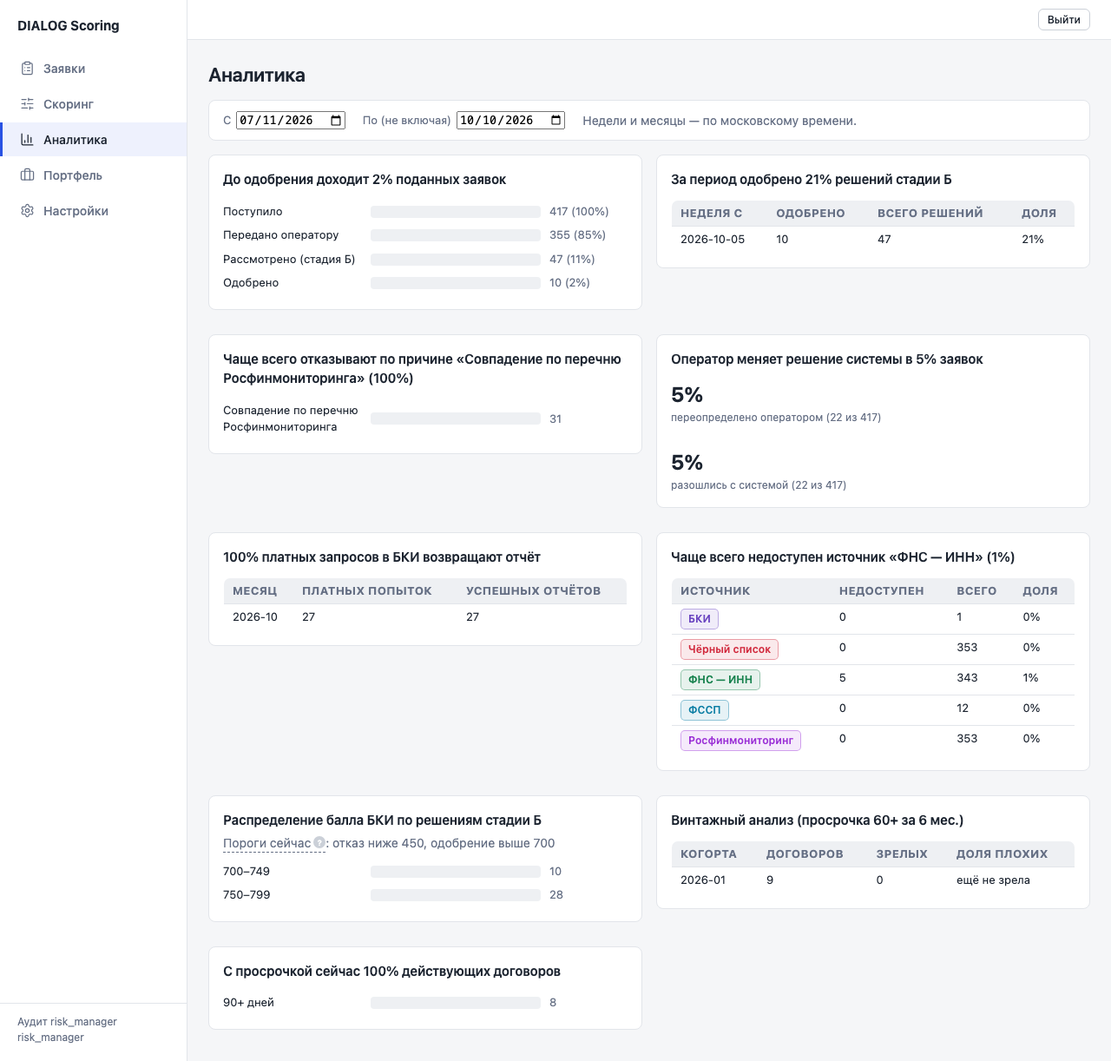
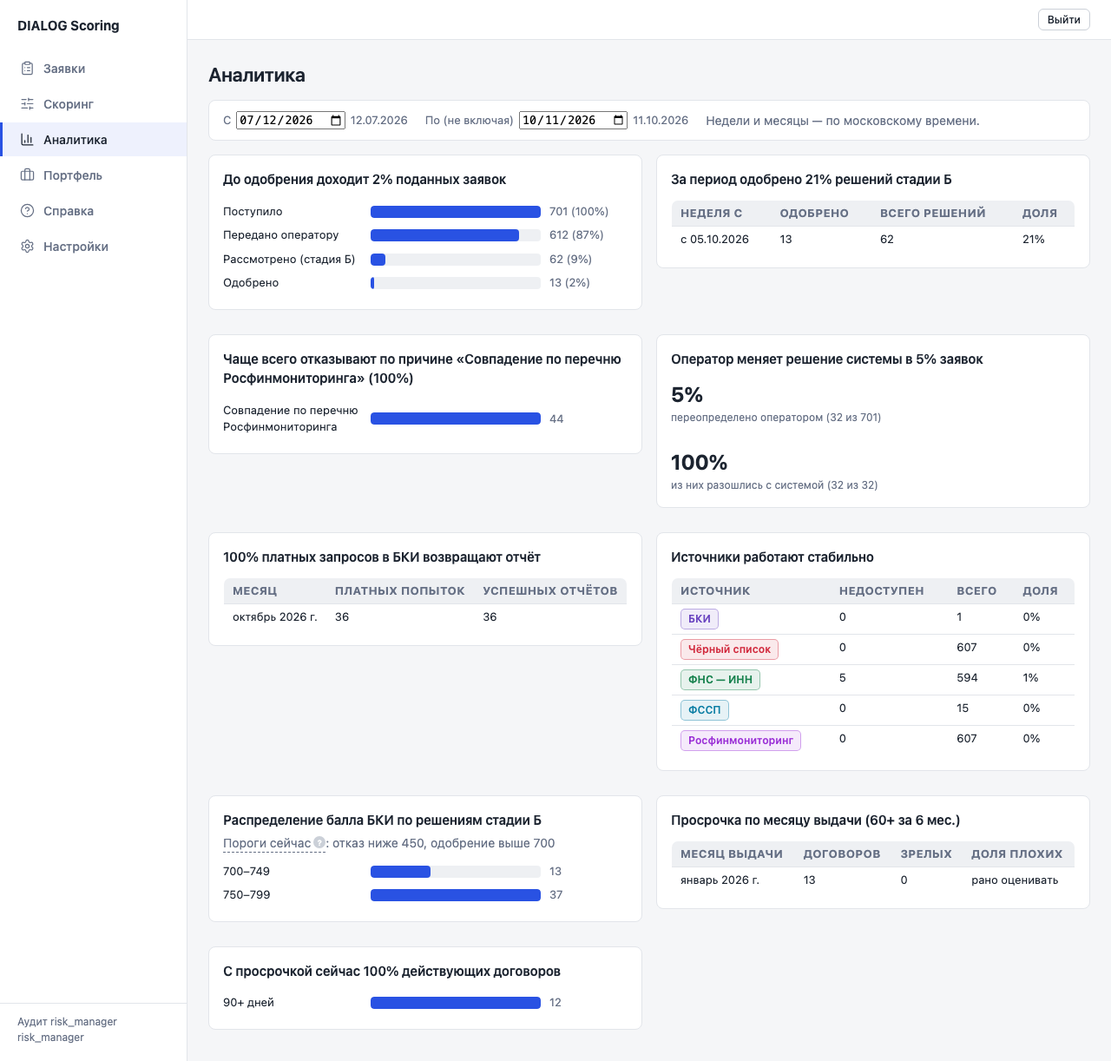
T17: финальные правки Аналитики и Справки перед мержем
Аналитика:
- Баг: .bar-fill — inline-span, width/height из стилей не действовали, ни
  один бар нигде не был виден. display: block чинит сразу все графики.
  Playwright: проверка ненулевой ширины заливки.
- Блок «оператор»: вторая цифра — доля от переопределённых («из них
  разошлись с системой»), не от всех заявок — раньше обе цифры совпадали
  без объяснения, почему.
- Порог заголовка «Недоступность источников» — новый ключ конфига
  dashboard.source_unavailable_warn_threshold (app/engine/schema.py,
  config/rulesets/dev.yaml), не константа в коде.
- Форматы: недели «с ДД.ММ.ГГГГ», месяцы «октябрь 2026 г.» (formatMonth).
  Поля периода — нативный календарь форматируется по локали ОС браузера
  (не по lang атрибута и не по locale контекста Playwright, проверено
  зондом) — рядом подпись ДД.ММ.ГГГГ нашим Intl-форматтером.
- Переименования: «Винтажный анализ» → «Просрочка по месяцу выдачи»,
  «Когорта» → «Месяц выдачи», «ещё не зрела» → «рано оценивать».

Справка:
- МВД убран из описания стадии А.
- «Оператор» — один человек с двумя задачами, без «не путать с».
- «Правила (конфиг)» → «Правила и пороги», без YAML/конфиг в тексте для людей.

pytest 556 passed · Playwright 35 passed · e2e_check 5/5.

diff --git a/frontend/src/pages/Dashboard.tsx b/frontend/src/pages/Dashboard.tsx
@@ -5,6 +5,7 @@ import { BarList } from "../components/BarList";
 import { SourceBadge } from "../components/SourceBadge";
 import { Term } from "../components/Term";
 import { funnelStepLabel, reasonCodeLabel, sourceMeta } from "../lib/labels";
+import { formatDate, formatMonth } from "../lib/format";
 
 function isoDate(d: Date): string {
   return d.toISOString().slice(0, 10);
@@ -51,11 +52,16 @@ export function DashboardPage() {
       <div className="toolbar">
         <label>
           С
-          <input type="date" value={periodFrom} onChange={(e) => setPeriodFrom(e.target.value)} />
+          <input type="date" lang="ru" value={periodFrom} onChange={(e) => setPeriodFrom(e.target.value)} />
+          {/* Формат нативного календаря зависит от локали ОС браузера — вне
+              нашего контроля (lang на элементе Chromium для него не читает).
+              Подпись рядом — всегда ДД.ММ.ГГГГ, тем же Intl, что в карточке. */}
+          <span className="muted">{formatDate(periodFrom)}</span>
         </label>
         <label>
           По (не включая)
-          <input type="date" value={periodTo} onChange={(e) => setPeriodTo(e.target.value)} />
+          <input type="date" lang="ru" value={periodTo} onChange={(e) => setPeriodTo(e.target.value)} />
+          <span className="muted">{formatDate(periodTo)}</span>
         </label>
         <span className="muted">Недели и месяцы — по московскому времени.</span>
       </div>
@@ -122,7 +128,7 @@ export function DashboardPage() {
                 <tbody>
                   {query.data.weekly_approval.map((w) => (
                     <tr key={w.week_start}>
-                      <td>{w.week_start}</td>
+                      <td>с {formatDate(w.week_start)}</td>
                       <td>{w.approved}</td>
                       <td>{w.total}</td>
                       <td>{pct(w.approved, w.total)}</td>
@@ -176,11 +182,14 @@ export function DashboardPage() {
                 </div>
                 <div className="stat">
                   <span className="stat-value">
-                    {pct(query.data.overrides.discrepancies, query.data.overrides.applications_total)}
+                    {pct(query.data.overrides.discrepancies, query.data.overrides.overridden)}
                   </span>
                   <span className="stat-label">
-                    разошлись с системой ({query.data.overrides.discrepancies} из{" "}
-                    {query.data.overrides.applications_total})
+                    {/* Доля от ПЕРЕОПРЕДЕЛЁННЫХ, не от всех заявок (ваше замечание —
+                        иначе эта цифра совпадает с первой и непонятно, чем они разные):
+                        сколько из тех, что оператор поменял, разошлось с системой. */}
+                    из них разошлись с системой ({query.data.overrides.discrepancies} из{" "}
+                    {query.data.overrides.overridden})
                   </span>
                 </div>
               </div>
@@ -213,7 +222,7 @@ export function DashboardPage() {
                 <tbody>
                   {query.data.bki_monthly.map((m) => (
                     <tr key={m.month}>
-                      <td>{m.month}</td>
+                      <td>{formatMonth(m.month)}</td>
                       <td>{m.attempts}</td>
                       <td>{m.successful}</td>
                     </tr>
@@ -226,13 +235,19 @@ export function DashboardPage() {
           <div className="card">
             {(() => {
               const d = query.data!;
+              const threshold = d.source_unavailable_warn_threshold;
               const sorted = d.source_availability.slice().sort((a, b) => b.unavailable / Math.max(1, b.total) - a.unavailable / Math.max(1, a.total));
-              const worst = sorted.find((s) => s.unavailable > 0);
+              // Порог — из действующей версии правил (config/rulesets/dev.yaml
+              // dashboard.source_unavailable_warn_threshold), не константа в коде
+              // фронта: ниже него — «стабильно», выше — называем худший источник.
+              const worst = sorted.find((s) => s.total > 0 && s.unavailable / s.total >= threshold);
               return (
                 <h2 style={{ marginTop: 0 }}>
-                  {!worst
+                  {d.source_availability.length === 0
                     ? "Недоступность источников"
-                    : `Чаще всего недоступен источник «${sourceMeta(worst.source).label}» (${pct(worst.unavailable, worst.total)})`}
+                    : !worst
+                      ? "Источники работают стабильно"
+                      : `Чаще всего недоступен источник «${sourceMeta(worst.source).label}» (${pct(worst.unavailable, worst.total)})`}
                 </h2>
               );
             })()}
@@ -303,7 +318,7 @@ export function DashboardPage() {
               return (
                 <h2 style={{ marginTop: 0 }}>
                   {totalMature === 0
-                    ? "Винтажный анализ (просрочка 60+ за 6 мес.)"
+                    ? "Просрочка по месяцу выдачи (60+ за 6 мес.)"
                     : `Среди зрелых когорт просрочку 60+ за 6 мес. допускают ${pct(totalBad, totalMature)} договоров`}
                 </h2>
               );
@@ -315,7 +330,7 @@ export function DashboardPage() {
               <table className="table table--compact">
                 <thead>
                   <tr>
-                    <th>Когорта</th>
+                    <th>Месяц выдачи</th>
                     <th>Договоров</th>
                     <th>Зрелых</th>
                     <th>Доля плохих</th>
@@ -324,12 +339,12 @@ export function DashboardPage() {
                 <tbody>
                   {query.data.vintage.map((v) => (
                     <tr key={v.cohort_month}>
-                      <td>{v.cohort_month}</td>
+                      <td>{formatMonth(v.cohort_month)}</td>
                       <td>{v.total_contracts}</td>
                       <td>{v.mature_contracts}</td>
                       <td>
                         {v.mature_contracts === 0
-                          ? "ещё не зрела"
+                          ? "рано оценивать"
                           : `${pct(v.bad_contracts ?? 0, v.mature_contracts)} (${v.bad_contracts} из ${v.mature_contracts})`}
                       </td>
                     </tr>

diff --git a/frontend/src/pages/Help.tsx b/frontend/src/pages/Help.tsx
@@ -16,7 +16,7 @@ const ROLE_ROWS: { role: string; label: string; sees: string }[] = [
   {
     role: "operator",
     label: "Оператор",
-    sees: "Сотрудник нашей админки (не путать с оператором в системе заказчика, который звонит клиенту). Проверяет ФССП по заявке — капчу решает человек. В карточке заявки видит ФИО и адрес заявителя и поручителя — без этого нельзя выбрать регион ФССП или отличить должника от однофамильца. В списке заявок тоже видит ФИО. Очередь — «позвонить» и «проверить ФССП».",
+    sees: "Звонит клиенту в системе заказчика и нажимает «Рассмотреть», а в нашей админке проверяет ФССП по заявке — капчу решает человек. В карточке заявки видит ФИО и адрес заявителя и поручителя — без этого нельзя выбрать регион ФССП или отличить должника от однофамильца. В списке заявок тоже видит ФИО. Очередь — «позвонить» и «проверить ФССП».",
   },
   {
     role: "compliance",
@@ -54,7 +54,7 @@ const GLOSSARY: { term: string; text: string }[] = [
   },
   {
     term: "Стадия А / стадия Б",
-    text: "Стадия А — сразу после подачи, без кредитной истории: только бесплатные локальные проверки (паспорт, МВД, Росфинмониторинг, чёрный список). Одобрения на стадии А не бывает — только отказ или передача оператору. Стадия Б — после звонка оператора: полнота анкеты, шариат, лимиты, затем запрос в БКИ и финансовые правила.",
+    text: "Стадия А — сразу после подачи, без кредитной истории: только бесплатные локальные проверки (формат и срок паспорта, Росфинмониторинг, чёрный список). Одобрения на стадии А не бывает — только отказ или передача оператору. Стадия Б — после звонка оператора: полнота анкеты, шариат, лимиты, затем запрос в БКИ и финансовые правила.",
   },
   {
     term: "«Не вычислимо»",
@@ -88,7 +88,7 @@ export function HelpPage() {
         </li>
         <li>
           <strong>
-            <Term tip="Сразу после подачи, без кредитной истории: только бесплатные локальные проверки (паспорт, МВД, Росфинмониторинг, чёрный список). Одобрения на стадии А не бывает.">
+            <Term tip="Сразу после подачи, без кредитной истории: только бесплатные локальные проверки (формат и срок паспорта, Росфинмониторинг, чёрный список). Одобрения на стадии А не бывает.">
               Стадия А
             </Term>
           </strong>{" "}
@@ -115,9 +115,9 @@ export function HelpPage() {
       <h2>Три рычага, которые влияют на решение</h2>
       <div className="help-levers">
         <div className="card">
-          <h3 style={{ marginTop: 0 }}>Правила (конфиг)</h3>
+          <h3 style={{ marginTop: 0 }}>Правила и пороги</h3>
           <p className="muted">
-            Пороги балла БКИ, лимиты сделки, долговая нагрузка — всё в YAML-версии правил, не в коде. Каждое
+            Пороги балла БКИ, лимиты сделки, долговая нагрузка — всё в одной версии правил, не в коде. Каждое
             решение хранит версию, по которой оно принято, так что порог в карточке старого решения не «уедет»
             после правки.
           </p>

diff --git a/frontend/e2e/analytics.spec.ts b/frontend/e2e/analytics.spec.ts
@@ -20,6 +20,47 @@ test("аналитика: воронка с выводом в заголовке
   await expect(page.getByText(/^submitted$|^to_operator$|^stage_b$|^approved$/)).toHaveCount(0);
 });
 
+test("бары графиков видимо заполнены, не пустой трек (баг заливки)", async ({ page }) => {
+  const seed = loadSeed();
+  await login(page, seed.risk_manager.email, seed.risk_manager.password);
+  await page.goto("/dashboard");
+
+  const fill = page.locator(".bar-fill").first();
+  await expect(fill).toBeVisible();
+  const box = await fill.boundingBox();
+  expect(box, "у .bar-fill должен быть реальный прямоугольник").not.toBeNull();
+  expect(box!.width).toBeGreaterThan(0);
+});
+
+test("даты и месяцы — по-русски, не ISO; переопределения объясняют разницу двух цифр", async ({ page }) => {
+  const seed = loadSeed();
+  await login(page, seed.risk_manager.email, seed.risk_manager.password);
+  await page.goto("/dashboard");
+
+  // Неделя "с ДД.ММ.ГГГГ", не голый ISO "YYYY-MM-DD".
+  await expect(page.getByText(/^с \d{2}\.\d{2}\.\d{4}$/).first()).toBeVisible();
+  await expect(page.getByText(/^\d{4}-\d{2}-\d{2}$/)).toHaveCount(0);
+  // Месяц "октябрь 2026"/"сентябрь 2026" и т.п., не голый "YYYY-MM".
+  await expect(page.getByText(/^\d{4}-\d{2}$/)).toHaveCount(0);
+
+  // Поля периода: нативный календарь форматируется по локали ОС браузера
+  // (вне нашего контроля) — рядом всегда подпись ДД.ММ.ГГГГ, этим и проверяем.
+  await expect(page.getByText(/^\d{2}\.\d{2}\.\d{4}$/).first()).toBeVisible();
+
+  // Вторая цифра блока переопределений — доля ОТ переопределённых, не от всех
+  // заявок: подпись явно говорит «из них», а не повторяет первую без объяснения.
+  await expect(page.getByText(/из них разошлись с системой/)).toBeVisible();
+
+  // Пункт 5: "Винтажный анализ"/"Когорта"/"ещё не зрела" переименованы.
+  await expect(page.getByText("Винтажный анализ", { exact: false })).toHaveCount(0);
+  await expect(page.getByRole("columnheader", { name: "Когорта" })).toHaveCount(0);
+  await expect(page.getByRole("columnheader", { name: "Месяц выдачи" })).toBeVisible();
+
+  // Заголовок-вывод источников — либо «стабильно», либо называет худший, не
+  // «есть хоть один недоступный» (порог — конфиг, не 0).
+  await expect(page.getByText(/Источники работают стабильно|Чаще всего недоступен источник/)).toBeVisible();
+});
+
 test("аналитика недоступна комплаенсу и администратору", async ({ page }) => {
   const seed = loadSeed();
   await login(page, seed.compliance.email, seed.compliance.password);

diff --git a/frontend/src/lib/format.ts b/frontend/src/lib/format.ts
@@ -51,3 +51,13 @@ export function formatElapsed(fromIso: string, now: Date = new Date()): string {
   return `${Math.floor(hours / 24)} дн ${hours % 24} ч`;
 }
 
+const monthFormatter = new Intl.DateTimeFormat("ru-RU", { month: "long", year: "numeric" });
+
+// "2026-10" -> "октябрь 2026" (аналитика: месяцы по-русски, не ISO).
+export function formatMonth(yearMonth: string | null | undefined): string {
+  if (!yearMonth) return "—";
+  const [year, month] = yearMonth.split("-").map(Number);
+  if (!year || !month) return yearMonth;
+  return monthFormatter.format(new Date(year, month - 1, 1));
+}
+

diff --git a/frontend/src/api/schema.d.ts b/frontend/src/api/schema.d.ts
@@ -1141,6 +1141,8 @@ export interface components {
             /** Score Distribution */
             score_distribution: components["schemas"]["ScoreBucketItem"][];
             score_thresholds: components["schemas"]["ScoreThresholds"] | null;
+            /** Source Unavailable Warn Threshold */
+            source_unavailable_warn_threshold: number;
             /** Weekly Approval */
             weekly_approval: components["schemas"]["WeeklyApprovalItem"][];
             /** Rejection Reasons */

diff --git a/frontend/src/index.css b/frontend/src/index.css
@@ -586,6 +586,9 @@ a:hover {
 }
 
 .bar-fill {
+  /* Баг (часть 5): без display эта заливка — span, inline-элемент, и
+     width/height из стилей на ней не действуют — трек оставался пустым. */
+  display: block;
   background: var(--color-primary);
   height: 100%;
   border-radius: 4px;

diff --git a/backend/app/api/dashboard.py b/backend/app/api/dashboard.py
@@ -122,6 +122,7 @@ class DashboardSummary(BaseModel):
     funnel: list[FunnelStepItem]
     score_distribution: list[ScoreBucketItem]
     score_thresholds: ScoreThresholds | None
+    source_unavailable_warn_threshold: float
     weekly_approval: list[WeeklyApprovalItem]
     rejection_reasons: list[RejectionReasonItem]
     overrides: OverridesSummary
@@ -305,6 +306,9 @@ async def get_dashboard_summary(
     # конкретной заявки — тот в карточке берётся из версии РЕШЕНИЯ, см.
     # app/api/applications.py). Битый конфиг — не роняем дашборд целиком.
     score_thresholds = None
+    # Дефолт схемы (0.05) — на случай битого/отсутствующего конфига: страница
+    # не должна зависеть от того, что именно случилось с версией правил.
+    source_unavailable_warn_threshold = 0.05
     ruleset_row = await get_active_ruleset_version(session)
     if ruleset_row is not None:
         try:
@@ -316,6 +320,7 @@ async def get_dashboard_summary(
                 auto_approve_above=config.score_thresholds.auto_approve_above,
                 auto_reject_below=config.score_thresholds.auto_reject_below,
             )
+            source_unavailable_warn_threshold = config.dashboard.source_unavailable_warn_threshold
 
     vintage_rows = (
         await session.execute(
@@ -379,4 +384,5 @@ async def get_dashboard_summary(
         overrides=overrides, bki_monthly=bki_monthly, source_availability=source_availability,
         vintage=vintage, delinquency_buckets=delinquency_buckets,
         score_distribution=score_distribution, score_thresholds=score_thresholds,
+        source_unavailable_warn_threshold=source_unavailable_warn_threshold,
     )

diff --git a/backend/app/engine/schema.py b/backend/app/engine/schema.py
@@ -219,6 +219,19 @@ class SourcesConfig(BaseModel):
     fssp: FsspSourceConfig
 
 
+class DashboardConfig(BaseModel):
+    """Пороги для ФОРМУЛИРОВОК аналитики (T17, часть 5, ваше явное указание:
+    порог — ключ конфига, не константа в коде фронта/бэкенда). Не влияет ни
+    на одно решение по заявке — только на то, какой заголовок-вывод показать
+    на графике «Недоступность источников»."""
+
+    model_config = ConfigDict(extra="forbid")
+
+    # Доля source_unavailable, начиная с которой источник считается проблемным
+    # («Чаще всего недоступен …»); ниже — «Источники работают стабильно».
+    source_unavailable_warn_threshold: float = Field(ge=0, le=1, default=0.05)
+
+
 class RulesetConfig(BaseModel):
     """Полная схема YAML-конфига правил (ТЗ, «Конфиг правил и пороги»)."""
 
@@ -240,6 +253,7 @@ class RulesetConfig(BaseModel):
     score_thresholds: ScoreThresholdsConfig
     matrix: list[MatrixEntry] = Field(default_factory=list)
     antifraud: AntifraudConfig
+    dashboard: DashboardConfig = Field(default_factory=DashboardConfig)
     # T16, ваше явное указание: без проверки ФССП (заявитель, и поручитель,
     # если используется) approved невозможен — максимум gray_zone с причиной
     # FSSP_NOT_CHECKED, тем же путём, что и BKI_NOT_CONFIGURED

diff --git a/backend/tests/test_api_dashboard.py b/backend/tests/test_api_dashboard.py
@@ -198,6 +198,7 @@ async def test_dashboard_summary_matches_exact_seeded_numbers(
     assert distribution == {400: 1, 750: 1, 800: 1}  # App2=410, App1=780, App3=820
     assert body["score_thresholds"]["auto_approve_above"] is not None
     assert body["score_thresholds"]["auto_reject_below"] is not None
+    assert body["source_unavailable_warn_threshold"] == 0.05  # config/rulesets/dev.yaml
 
 
 async def test_dashboard_forbidden_for_admin_and_compliance(admin_client, session_factory):
